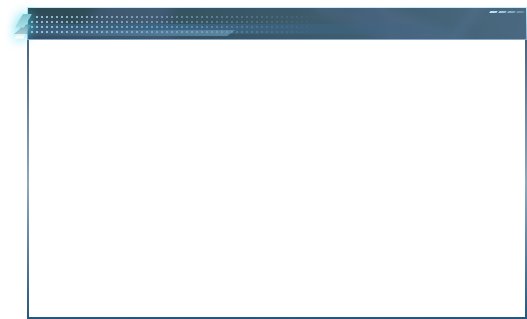
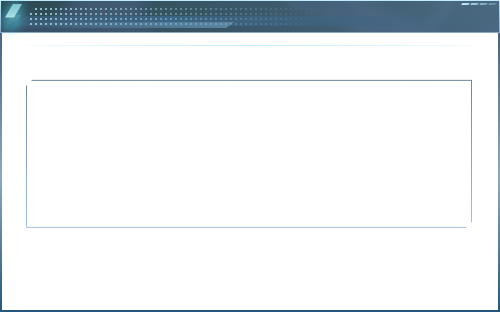
fix:模型更新,大屏词编辑弹窗功能及交互

Changed region(s): [[0.0, 0.0, 1.0, 1.0], [0.99, 0.9231, 1.0, 1.0]]

diff --git a/code/src/pages/d3/scene/office/edit-dialog.vue b/code/src/pages/d3/scene/office/edit-dialog.vue
@@ -1,0 +1,145 @@
+<template>
+  <div class="screen-welcom-dialog" v-if="visible">
+    <div class="mask" @click="visible = !visible"></div>
+    <div class="wrap">
+      <div class="body">
+        <div class="title">
+          <div class="bg">{{ title }}</div>
+          <div class="text">{{ title }}</div>
+        </div>
+        <div class="content">
+          <el-input
+            type="textarea"
+            v-model="content"
+            placeholder="请输入"
+            maxlength="24"
+            show-word-limit
+          ></el-input>
+        </div>
+        <div class="footer">
+          <div class="btn" @click="onConfirm"></div>
+        </div>
+      </div>
+    </div>
+  </div>
+</template>
+
+<script lang="ts" setup>
+import { trim } from '@/common/utils/format'
+
+const props = defineProps<{
+  title?: string
+  errMessage?: string
+}>()
+
+const visible = defineModel<boolean>()
+const content = defineModel<string>('content')
+
+const emits = defineEmits<{
+  confirm: [text?: string]
+}>()
+
+const onConfirm = () => {
+  const text = trim(content.value || '')
+  if (!text) {
+    ElMessage.warning({
+      message: props.errMessage,
+      grouping: true
+    })
+    return
+  }
+  visible.value = false
+  emits('confirm', content.value)
+}
+</script>
+
+<style lang="scss">
+.screen-welcom-dialog {
+  top: 0;
+  left: 0;
+  width: 100%;
+  height: 100%;
+  z-index: 1;
+  position: fixed;
+  .mask {
+    width: 100%;
+    height: 100%;
+  }
+  .wrap {
+    top: 50%;
+    left: 50%;
+    width: 513px;
+    position: absolute;
+    transform: translate(-50%, -50%);
+    backdrop-filter: blur(5px);
+  }
+  .body {
+    background: url('/oss/img/scene/edit-bg.png') no-repeat;
+    background-size: 100% 100%;
+  }
+
+  .mask {
+    top: 0;
+    left: 0;
+    width: 100%;
+    height: 100%;
+    content: '';
+    position: absolute;
+  }
+
+  .title {
+    height: 34px;
+    position: relative;
+    font-size: 20px;
+    line-height: 34px;
+    padding-left: 35px;
+    .bg,
+    .text {
+      position: absolute;
+      font-family: 'YouShe';
+    }
+    .text {
+      color: #e4f3ef;
+    }
+    .bg {
+      text-shadow: 0px 1px 5px #49afdb;
+      -webkit-background-clip: text;
+      -webkit-text-fill-color: transparent;
+    }
+  }
+
+  .content {
+    height: 210px;
+    padding: 48px 29px 10px 27px;
+
+    .el-textarea {
+      height: 100%;
+      background-color: rgba($color: #a8bfde, $alpha: 0.1);
+      --el-border-color: transparent;
+      --el-input-border-radius: 0;
+      textarea {
+        height: 100%;
+      }
+    }
+  }
+
+  .footer {
+    padding: 16px;
+    text-align: center;
+    .btn {
+      width: 150px;
+      height: 42px;
+      cursor: pointer;
+      display: inline-block;
+      background: url('/oss/img/scene/edit-btn.png');
+      background-size: 100% 100%;
+      &:hover {
+        opacity: 0.85;
+      }
+      &:active {
+        opacity: 0.75;
+      }
+    }
+  }
+}
+</style>

diff --git a/code/src/pages/d3/scene/office/index.vue b/code/src/pages/d3/scene/office/index.vue
@@ -50,10 +50,19 @@
     >
       <div :class="$style.msg" v-html="tipOpts.msg"></div>
     </div>
+
+    <t-dialog
+      v-model="dialog.show"
+      :title="dialog.title"
+      v-model:content="dialog.content"
+      :err-message="dialog.errMessage"
+      @confirm="onConfirm"
+    ></t-dialog>
   </div>
 </template>
 
 <script lang="ts" setup>
+import tDialog from './edit-dialog.vue'
 import tLoading from '@/components/loading/index.vue'
 
 import {
@@ -157,7 +166,9 @@ const floorItems = computed(() => {
 // 大屏欢迎词弹窗
 const welcomKey = 'welcom.key'
 const { options: dialog } = useDialog({
-  title: getStorage(welcomKey) || ''
+  title: '编辑欢迎词',
+  content: getStorage(welcomKey) || '',
+  errMessage: '请输入欢迎词！'
 })
 
 // 楼层移动至
@@ -368,7 +379,7 @@ const load = () => {
       createRoblt()
       createCharacter()
       // 绘制画布纹理
-      Emitter.emit('SCREEN:WELCOM', dialog.title)
+      Emitter.emit('SCREEN:WELCOM', dialog.content)
       scene.addVideoMaterial(res.JsonList.filter(it => it.type === VIDEO_SWITCH).map(it => it.bind))
       scene.addCanvasMaterial(res.JsonList.filter(it => it.type === SCREEN_EDIT).map(it => it.bind))
       scene.addAirWindMaterial(res.JsonList.filter(it => it.type === AIR_SWITCH).map(it => it.bind))
@@ -416,6 +427,8 @@ const initPage = () => {
 }
 
 const onDialogInput = () => {
+  dialog.show = true
+  return
   ElMessageBox({
     title: '编辑欢迎词',
     message: () => {
@@ -453,6 +466,12 @@ const onDialogInput = () => {
       Emitter.emit('SCREEN:WELCOM', dialog.title)
     }
   })
+}
+
+const onConfirm = text => {
+  dialog.content = text
+  setStorage(welcomKey, dialog.content || '')
+  Emitter.emit('SCREEN:WELCOM', dialog.content)
 }
 
 const onClickLeft = object => {

diff --git a/code/src/pages/svg/texture/index.vue b/code/src/pages/svg/texture/index.vue
@@ -100,54 +100,8 @@ const opts = reactive({
 })
 
 const imgSrc = computed(() => opts.imgs[opts.imgIndex]?.src)
-
-const dialog = reactive({
-  show: true
-})
 </script>
-<style lang="scss">
-.is-message-box {
-  &:has(.screen-welcom-dialog) {
-    background-color: transparent;
-  }
-}
-.screen-welcom-dialog {
-  position: relative;
-  box-shadow: none;
-  background: transparent;
-  border-radius: 0;
-  &::after {
-    top: 0;
-    left: 0;
-    width: 100%;
-    height: 100%;
-    content: '';
-    position: absolute;
-    backdrop-filter: blur(2px);
-  }
-  .el-message-box {
-    &__title {
-      color: #000;
-      font-size: 20px;
-      // font-family: 'Youshe';
-      // text-shadow: 0px 2px 3px #e4f3ef;
-      // -webkit-background-clip: text;
-      // -webkit-text-fill-color: transparent;
-    }
-    &__message {
-      width: 100%;
-      .el-textarea {
-        &__inner {
-          border: 1px solid;
-          background: linear-gradient(96deg, #817192 0%, #588aaf 100%);
-          border-image: linear-gradient(180deg, rgba(112, 132, 157, 1), rgba(168, 191, 222, 1)) 1 1;
-          border-radius: 0px 0px 0px 0px;
-        }
-      }
-    }
-  }
-}
-</style>
+<style lang="scss"></style>
 <style lang="scss" scoped>
 .wrap {
   margin: 5px;

diff --git a/code/src/hooks/dialog.ts b/code/src/hooks/dialog.ts
@@ -8,13 +8,15 @@ export declare interface Options {
     left: string
     top: string
   }
+  content?: string
   type?: string | number
   extend?: any
   list?: ListItem[]
+  [key: string]: any
 }
 
 export const useDialog = (opts?: Options) => {
-  const options = reactive({
+  const options: Options = reactive({
     show: false,
     ...opts
   })
